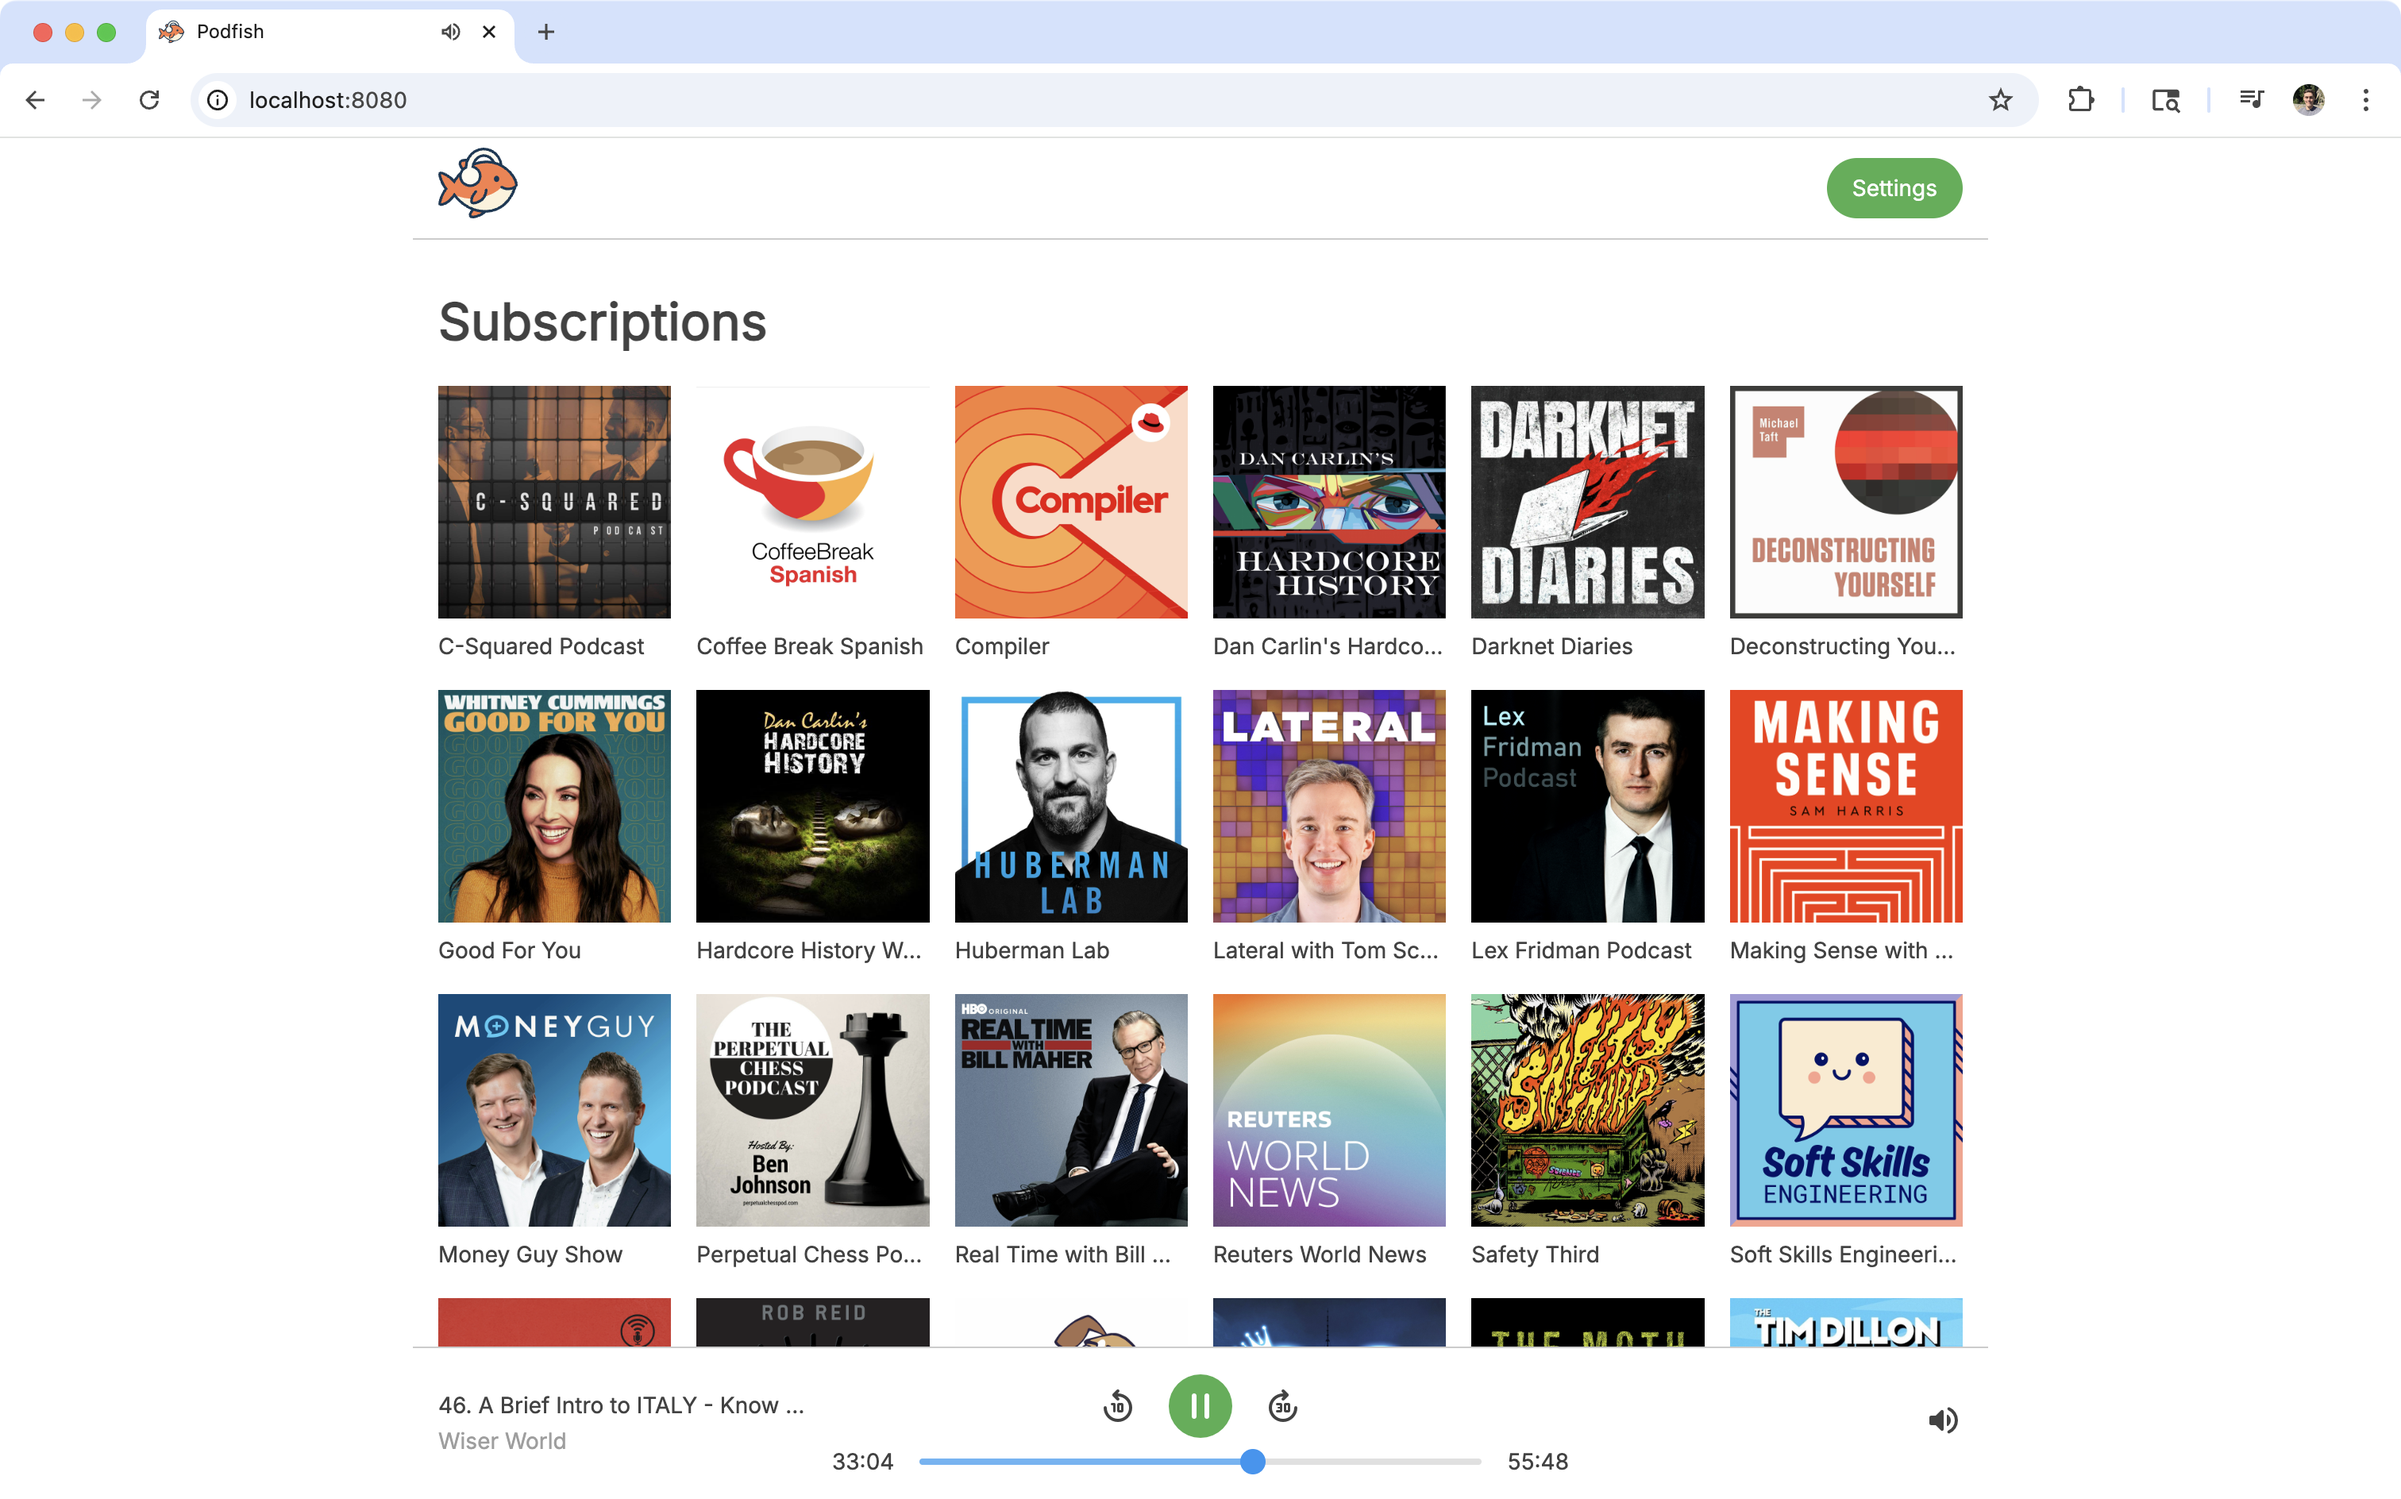
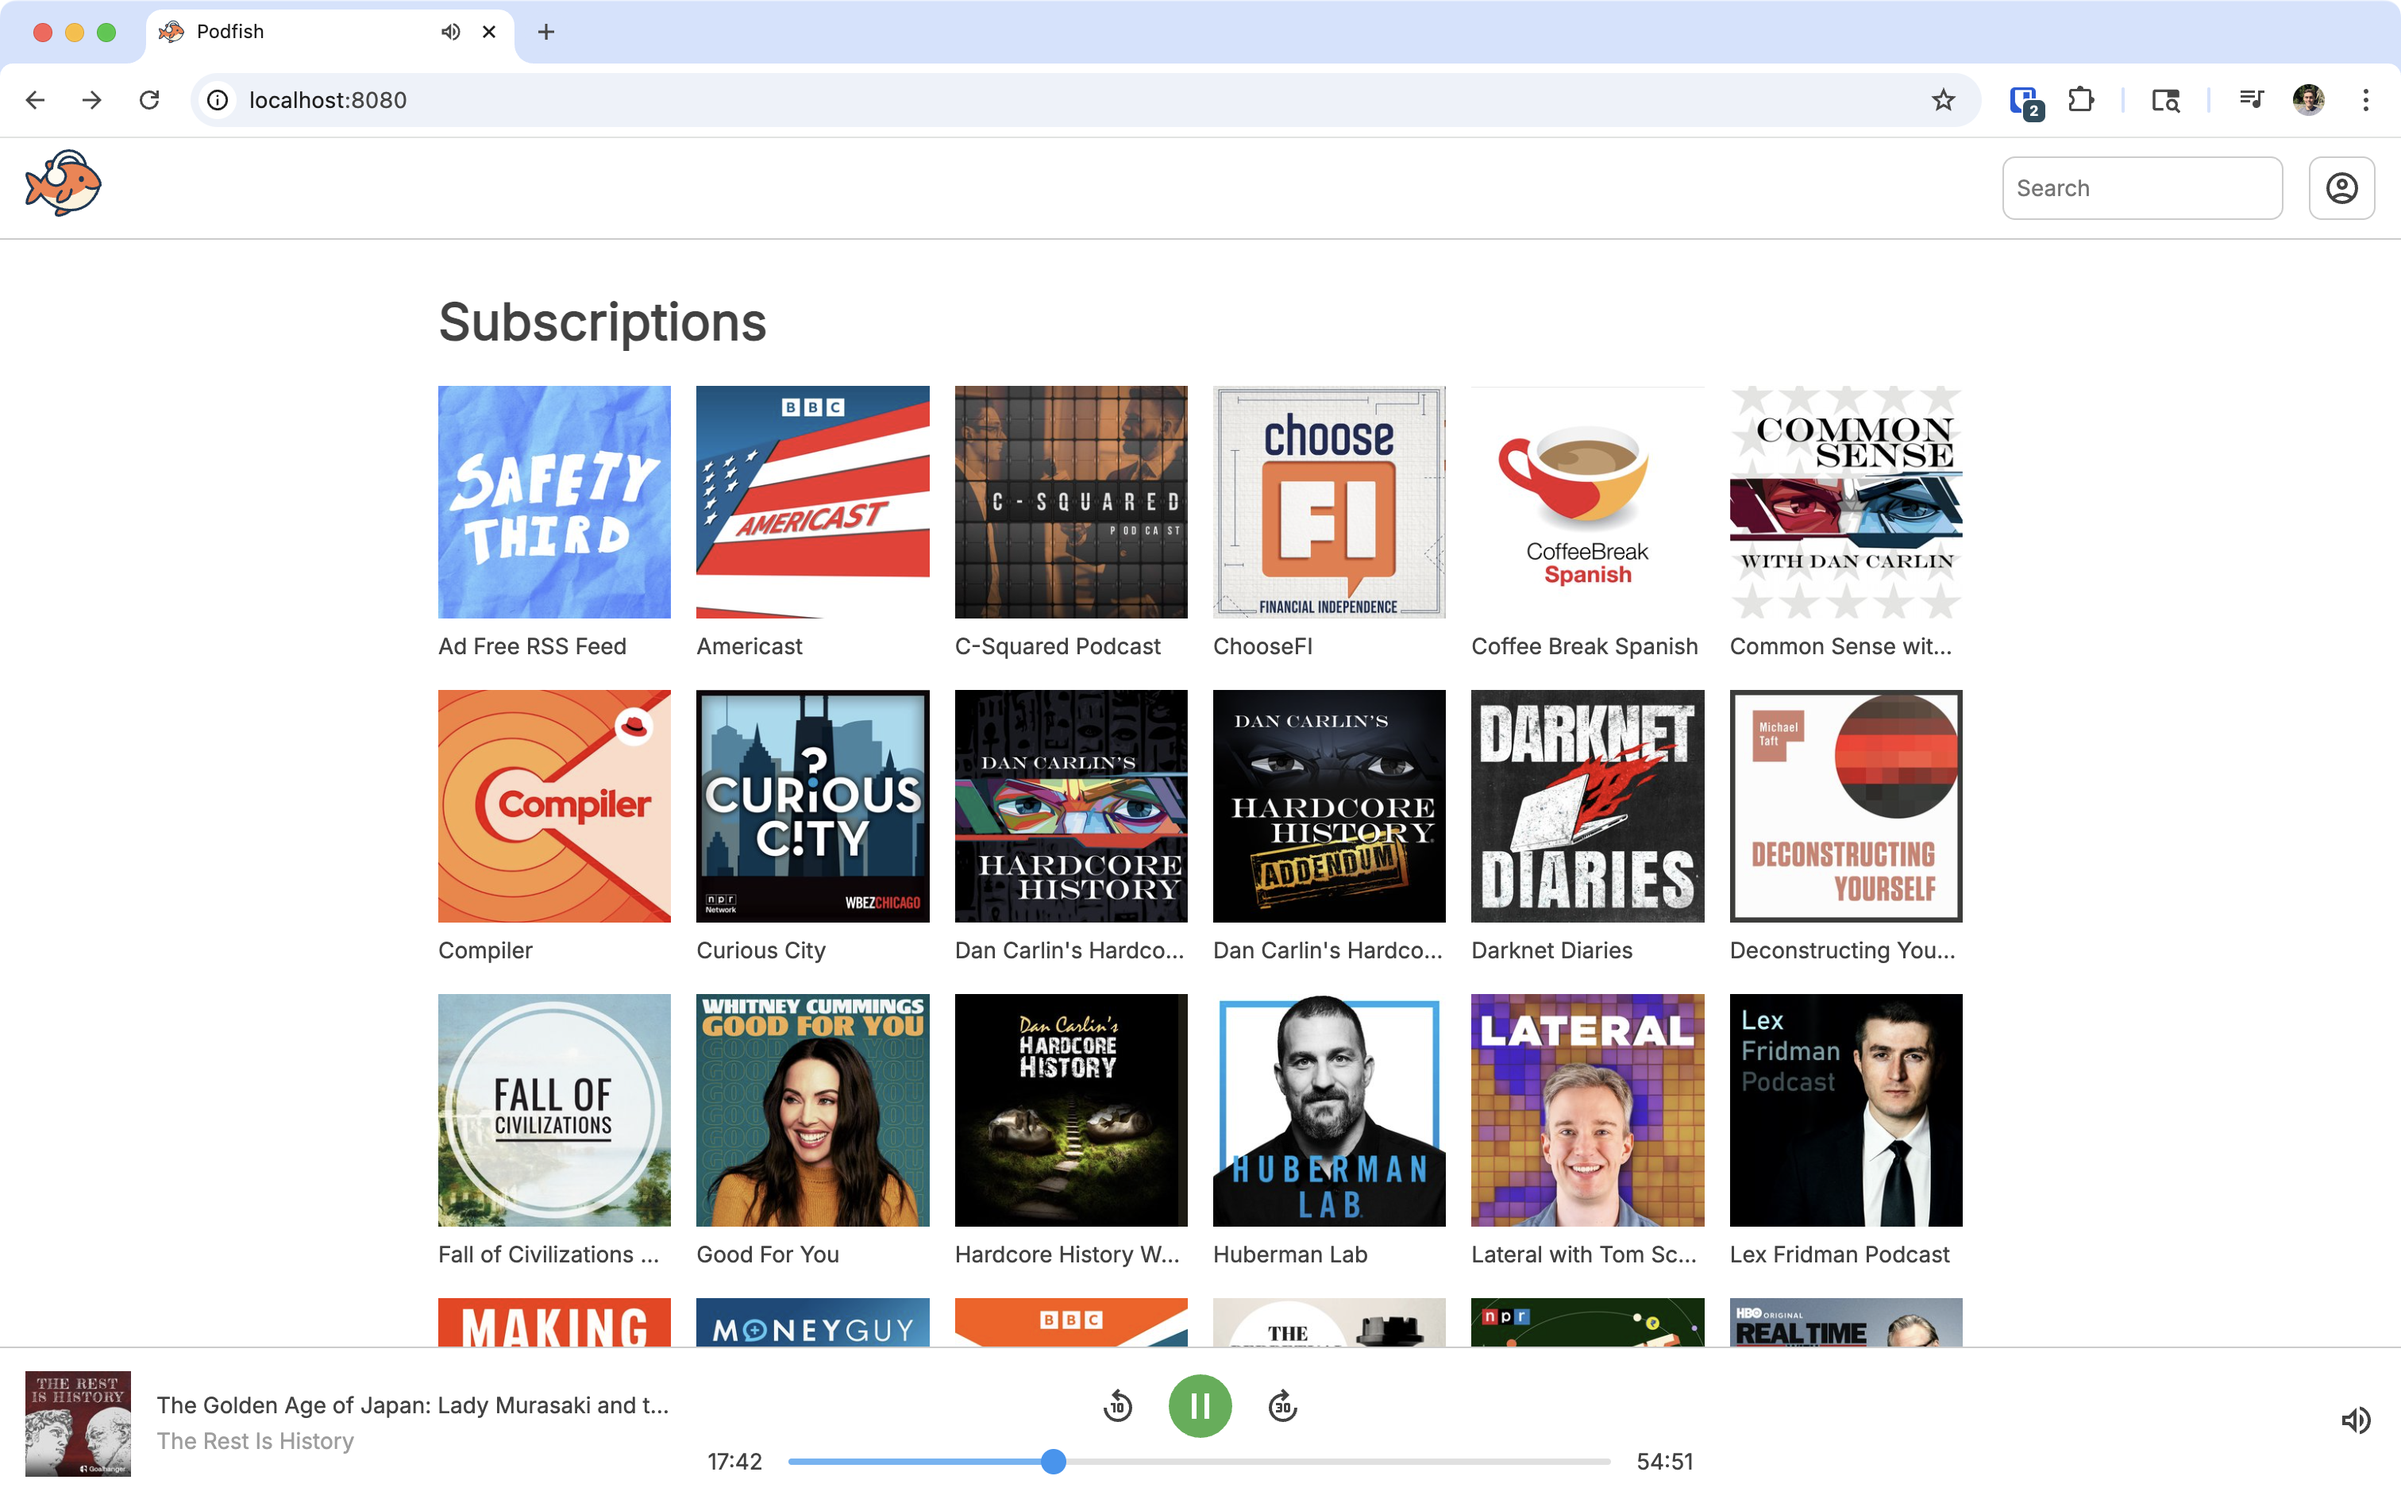
Added title bar search and dropdown with sign out button

diff --git a/ui/src/components/TitleBar.tsx b/ui/src/components/TitleBar.tsx
@@ -1,26 +1,67 @@
-import { Link } from "react-router-dom";
+import Cookies from "js-cookie";
+import { useState } from "react";
+import { Link, useNavigate } from "react-router-dom";
 
+import { postSignOut } from "@/api-service";
 import { useRootContext } from "@/contexts/RootContext";
+import AccountCircle from "@/symbols/AccountCircle";
 
 import "@/components/TitleBar.css";
 
 function TitleBar() {
-  const { state } = useRootContext();
+  const navigate = useNavigate();
+  const [showDropdown, setShowDropdown] = useState(false);
+  const { dispatch, state } = useRootContext();
 
-  let authButtons = (
-    <>
+  async function search() {
+    // TODO
+  }
+
+  async function signOut() {
+    const res = await postSignOut();
+    if (res.ok) {
+      dispatch({ type: 'SET_USER', data: Cookies.get('user') || null });
+      navigate('/sign-in');
+    }
+  }
+
+  let actionButtons = (
+    <div className="title-bar-item-row">
       <Link className="title-bar-item mr-3" to={"/sign-up"}>Sign Up</Link>
       <Link className="title-bar-item" to={"/sign-in"}>
         <button className="btn btn-pill">Sign In</button>
       </Link>
-    </>
+    </div>
   );
 
   if (state.user) {
-    authButtons = (
-      <Link className="title-bar-item" to={"/settings"}>
-        <button className="btn btn-pill">Settings</button>
-      </Link>
+    actionButtons = (
+      <div className="title-bar-item-row">
+        <form className="form" action={ search }>
+          <input
+            // ref={ searchRef }
+            // autoComplete="on"
+            name="search"
+            placeholder="Search"
+            required={ true }
+            type="text"
+          />
+        </form>
+        <div className="title-bar-dropdown">
+          <button
+            className="btn title-bar-account-btn"
+            onClick={ () => setShowDropdown(!showDropdown) }>
+            <AccountCircle />
+          </button>
+          <div
+            className="title-bar-dropdown-content"
+            onClick={ () => setShowDropdown(false) }
+            style={{ visibility: (showDropdown) ? "visible" : "hidden" }}>
+            <Link className="title-bar-dropdown-item" to={"/settings"}>Settings</Link>
+            <p className="title-bar-dropdown-item" onClick={ signOut }>Sign Out</p>
+          </div>
+        </div>
+      </div>
     );
   }
 
@@ -29,7 +70,7 @@ function TitleBar() {
       <Link className="title-bar-item" to={"/"}>
         <img className="title-bar-logo" src="/logo.svg" />
       </Link>
-      { authButtons }
+      { actionButtons }
     </div>
   )
 }

diff --git a/ui/src/components/TitleBar.css b/ui/src/components/TitleBar.css
@@ -12,6 +12,52 @@
     z-index: 1000;
 }
 
+.title-bar-account-btn {
+    align-items: center;
+    background-color: transparent;
+    border: var(--br);
+    border-radius: 8px;
+    justify-content: center;
+    display: flex;
+}
+
+.title-bar-dropdown {
+    position: relative;
+}
+
+.title-bar-dropdown-content {
+    background-color: white;
+    border: var(--br);
+    border-radius: 8px;
+    display: flex;
+    flex-direction: column;
+    gap: 8px;
+    padding: 16px;
+    position: absolute;
+    top: 48px;
+    right: 0;
+    z-index: 100;
+}
+
+.title-bar-dropdown-item {
+    background-color: transparent;
+    color: var(--text-color);
+    cursor: pointer;
+    text-decoration: none;
+    white-space: nowrap;
+}
+
+.title-bar-dropdown-item:hover {
+    color: var(--text-color);
+    text-decoration: none;
+}
+
 .title-bar-item > * { white-space: nowrap; }
 
-.title-bar-logo { height: 100%; width: 50px; }
+.title-bar-item-row {
+    align-items: center;
+    display: flex;
+    gap: 16px;
+}
+
+.title-bar-logo { height: 100%; width: 48px; }

diff --git a/ui/src/symbols/AccountCircle.tsx b/ui/src/symbols/AccountCircle.tsx
@@ -1,0 +1,9 @@
+import type { TSymbolProps } from "@/types/symbol";
+
+function AccountCircle({ onClick, fill }: TSymbolProps) {
+  return (
+    <svg className="btn symbol" onClick={ onClick } xmlns="http://www.w3.org/2000/svg" height="24px" viewBox="0 -960 960 960" width="24px" fill={ fill || "var(--text-color)" }><path d="M234-276q51-39 114-61.5T480-360q69 0 132 22.5T726-276q35-41 54.5-93T800-480q0-133-93.5-226.5T480-800q-133 0-226.5 93.5T160-480q0 59 19.5 111t54.5 93Zm246-164q-59 0-99.5-40.5T340-580q0-59 40.5-99.5T480-720q59 0 99.5 40.5T620-580q0 59-40.5 99.5T480-440Zm0 360q-83 0-156-31.5T197-197q-54-54-85.5-127T80-480q0-83 31.5-156T197-763q54-54 127-85.5T480-880q83 0 156 31.5T763-763q54 54 85.5 127T880-480q0 83-31.5 156T763-197q-54 54-127 85.5T480-80Zm0-80q53 0 100-15.5t86-44.5q-39-29-86-44.5T480-280q-53 0-100 15.5T294-220q39 29 86 44.5T480-160Zm0-360q26 0 43-17t17-43q0-26-17-43t-43-17q-26 0-43 17t-17 43q0 26 17 43t43 17Zm0-60Zm0 360Z"/></svg>
+  )
+}
+
+export default AccountCircle;

diff --git a/ui/src/components/Playbar.tsx b/ui/src/components/Playbar.tsx
@@ -71,19 +71,19 @@ function Playbar() {
       <div className="center flex-1_5">
         <div className="playbar-symbol-group">
           <Replay10
-            onClick={ () => { dispatch({
+            onClick={ () => dispatch({
               type: 'AUDIO_SKIP',
               data: Math.max(0, (state.nowPlaying?.position?.currentTime || 0) - 10)
-            }); } } />
+            }) } />
           { simpleControls }
           <Forward30
-            onClick={ () => { dispatch({
+            onClick={ () => dispatch({
               type: 'AUDIO_SKIP',
               data: Math.min(
                 state.nowPlaying?.position?.realDuration || 0,
                 (state.nowPlaying?.position?.currentTime || 0) + 30
               )
-            }); } } />
+            }) } />
         </div>
         { slider }
       </div>

diff --git a/ui/src/index.css b/ui/src/index.css
@@ -70,9 +70,12 @@ button, h1, h2, h3, h4, h5, h6, input, label, p { color: var(--text-color); }
 /* prevents page from being dragged while slider is used on mobile */
 body { overflow-x: hidden; }
 
-button, input[type=email], input[type=password], input[type=url] { padding: 8px; }
+button, input[type=email], input[type=password], input[type=text], input[type=url] {
+    height: 40px;
+    padding: 8px;
+}
 
-input[type=email], input[type=password], input[type=url] {
+input[type=email], input[type=password], input[type=text], input[type=url] {
     border: var(--br);
     border-radius: 8px;
 }

diff --git a/ui/src/api-service.ts b/ui/src/api-service.ts
@@ -56,6 +56,12 @@ export function postSignIn(email: string, password: string) {
   });
 }
 
+export function postSignOut() {
+  return callApi<TSignIn>(null, '/api/v1/auth/sign-out', {
+    method: 'POST'
+  });
+}
+
 export function postSignUp(email: string, password: string) {
   return callApi<TSignUp>(null, '/api/v1/auth/sign-up', {
     method: 'POST',

diff --git a/ui/src/podcast/Episode.css b/ui/src/podcast/Episode.css
@@ -3,7 +3,6 @@
 .episode-header {
     align-items: center;
     display: flex;
-    flex-direction: row;
     gap: 16px;
 }
 
@@ -16,7 +15,6 @@
 
 .episode-subtext {
     display: flex;
-    flex-direction: row;
     gap: 8px;
 }
 

diff --git a/ui/src/podcast/Podcast.css b/ui/src/podcast/Podcast.css
@@ -37,7 +37,6 @@
     .podcast-header {
         align-items: flex-start;
         display: flex;
-        flex-direction: row;
         gap: 16px;
         padding-bottom: 8px;
     }

diff --git a/ui/src/components/Playbar.css b/ui/src/components/Playbar.css
@@ -19,7 +19,6 @@
 .playbar-metadata {
     align-items: center;
     display: flex;
-    flex-direction: row;
     gap: 16px;
     height: 100%;
 }

diff --git a/ui/src/components/Slider.css b/ui/src/components/Slider.css
@@ -1,7 +1,6 @@
 .labeled-slider {
     align-items: center;
     display: flex;
-    flex-direction: row;
     gap: 8px;
     width: 100%;
 }

diff --git a/README.md b/README.md
@@ -14,15 +14,21 @@ Podfish is a self-hostable podcast client. It lets you browse your favorite podc
 # How to Run
 
 Getting started is easy. Just run:
-```
+```sh
 docker compose up
 ```
 
 Most changes will be automatically reapplied when developing locally, but some changes (ex: installing a node module) require a rebuild. Containers can be rebuilt like so:
-```
+```sh
+# Rebuilds both containers
+docker compose down && docker compose build --no-cache && docker compose up
+
+# Rebuilds the API
+docker compose down && docker compose build --no-cache api && docker compose up
+
+# Rebuilds the UI
 docker compose down && docker compose build --no-cache ui && docker compose up
 ```
-Backend changes work the same way but with `api` instead of `ui`.
 
 Common settings such as the environment (dev/prod), ports, keys, and more can be set in the `.env` file.
 
